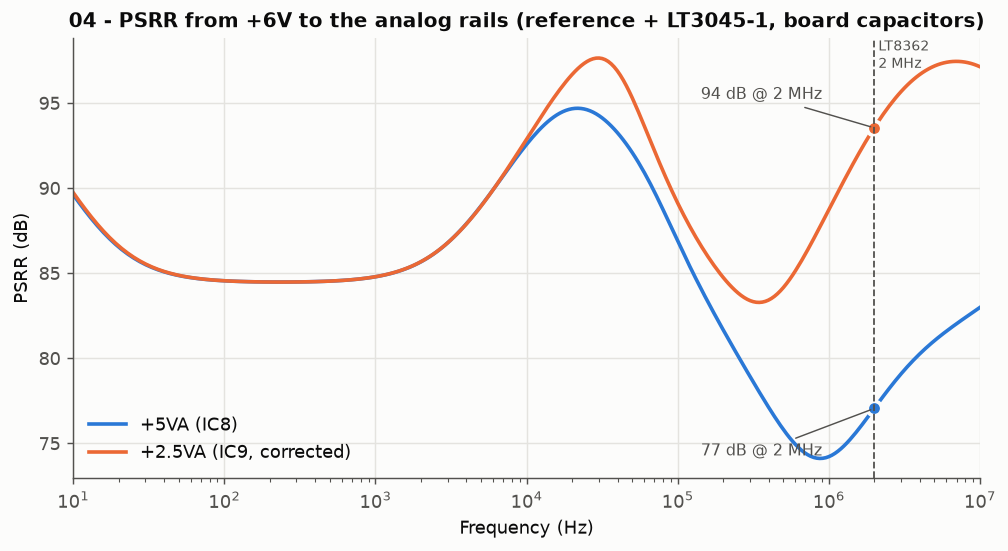
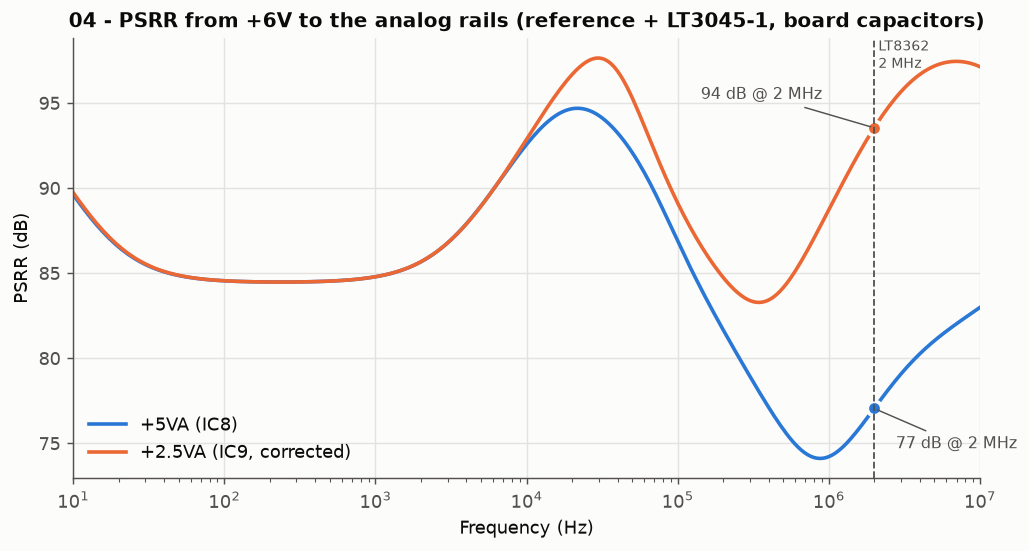
Simulation figures: keep legends and labels off the curves

diff --git a/Simulation/LTspice/run_simulations.py b/Simulation/LTspice/run_simulations.py
@@ -206,12 +206,13 @@ def fig04():
     d = read_raw(os.path.join(HERE, "04_Analog_Rails_PSRR.raw"))
     f = d["frequency"]
     fig, a = plt.subplots(figsize=(9, 4.4))
-    for key, lab, col, dy in (("v(+5va)", "+5VA (IC8)", C1, -26), ("v(+2.5va)", "+2.5VA (IC9, corrected)", C2, 16)):
+    for key, lab, col, dx, dy in (("v(+5va)", "+5VA (IC8)", C1, 12, -22),
+                                  ("v(+2.5va)", "+2.5VA (IC9, corrected)", C2, -96, 16)):
         psrr = -20 * np.log10(np.abs(d[key]))
         a.semilogx(f, psrr, color=col, lw=2, label=lab)
         i = np.argmin(np.abs(f - 2e6))
         a.plot(f[i], psrr[i], "o", color=col, ms=8, mec=SURFACE, mew=2)
-        a.annotate(f"{psrr[i]:.0f} dB @ 2 MHz", (f[i], psrr[i]), xytext=(-96, dy),
+        a.annotate(f"{psrr[i]:.0f} dB @ 2 MHz", (f[i], psrr[i]), xytext=(dx, dy),
                    textcoords="offset points", color=INK2, fontsize=9,
                    arrowprops=dict(arrowstyle="-", color=INK2, lw=0.8))
     a.axvline(2e6, color=INK2, lw=1, ls="--")
@@ -243,7 +244,7 @@ def fig05():
     a.set_title("05 - Measurement channels, from the phase to the AD7606C input pins")
     a.set_ylim(-55, 3)
     a.set_xlim(f[0], f[-1])
-    a.legend(loc="upper right")
+    a.legend(loc="center left")
     save(fig, "sim05_channels_ac.png")
 
 
